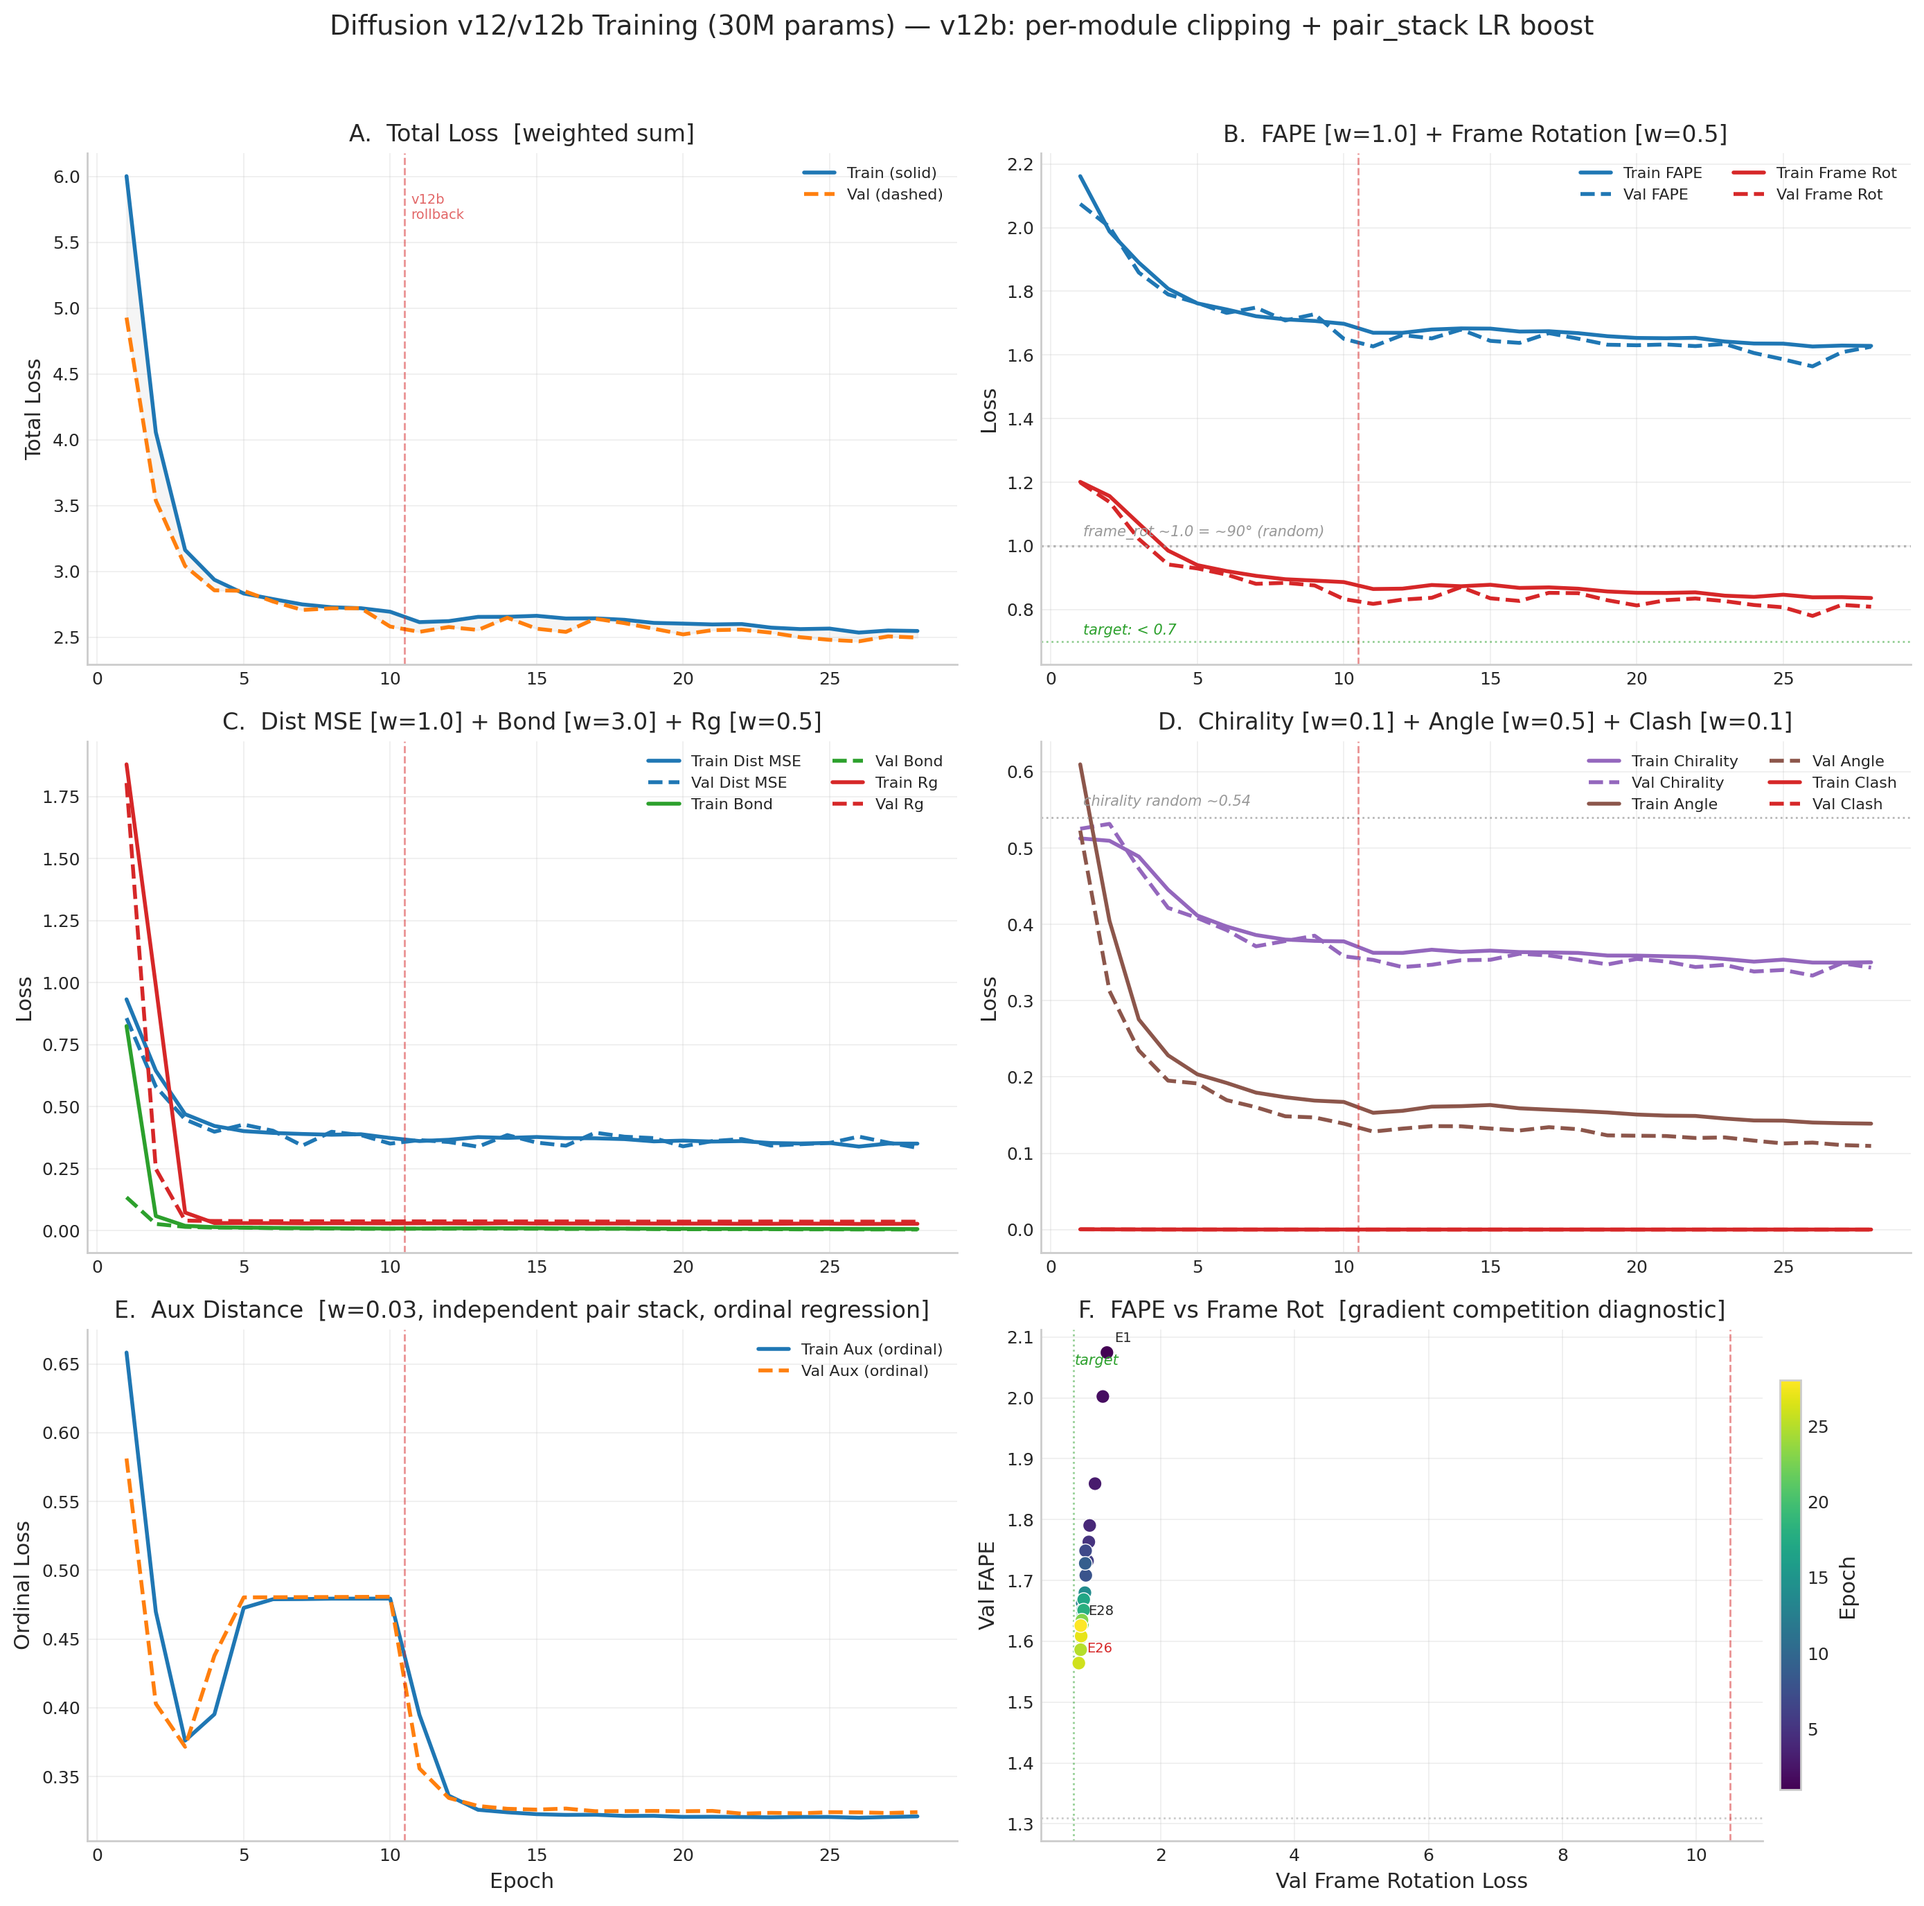
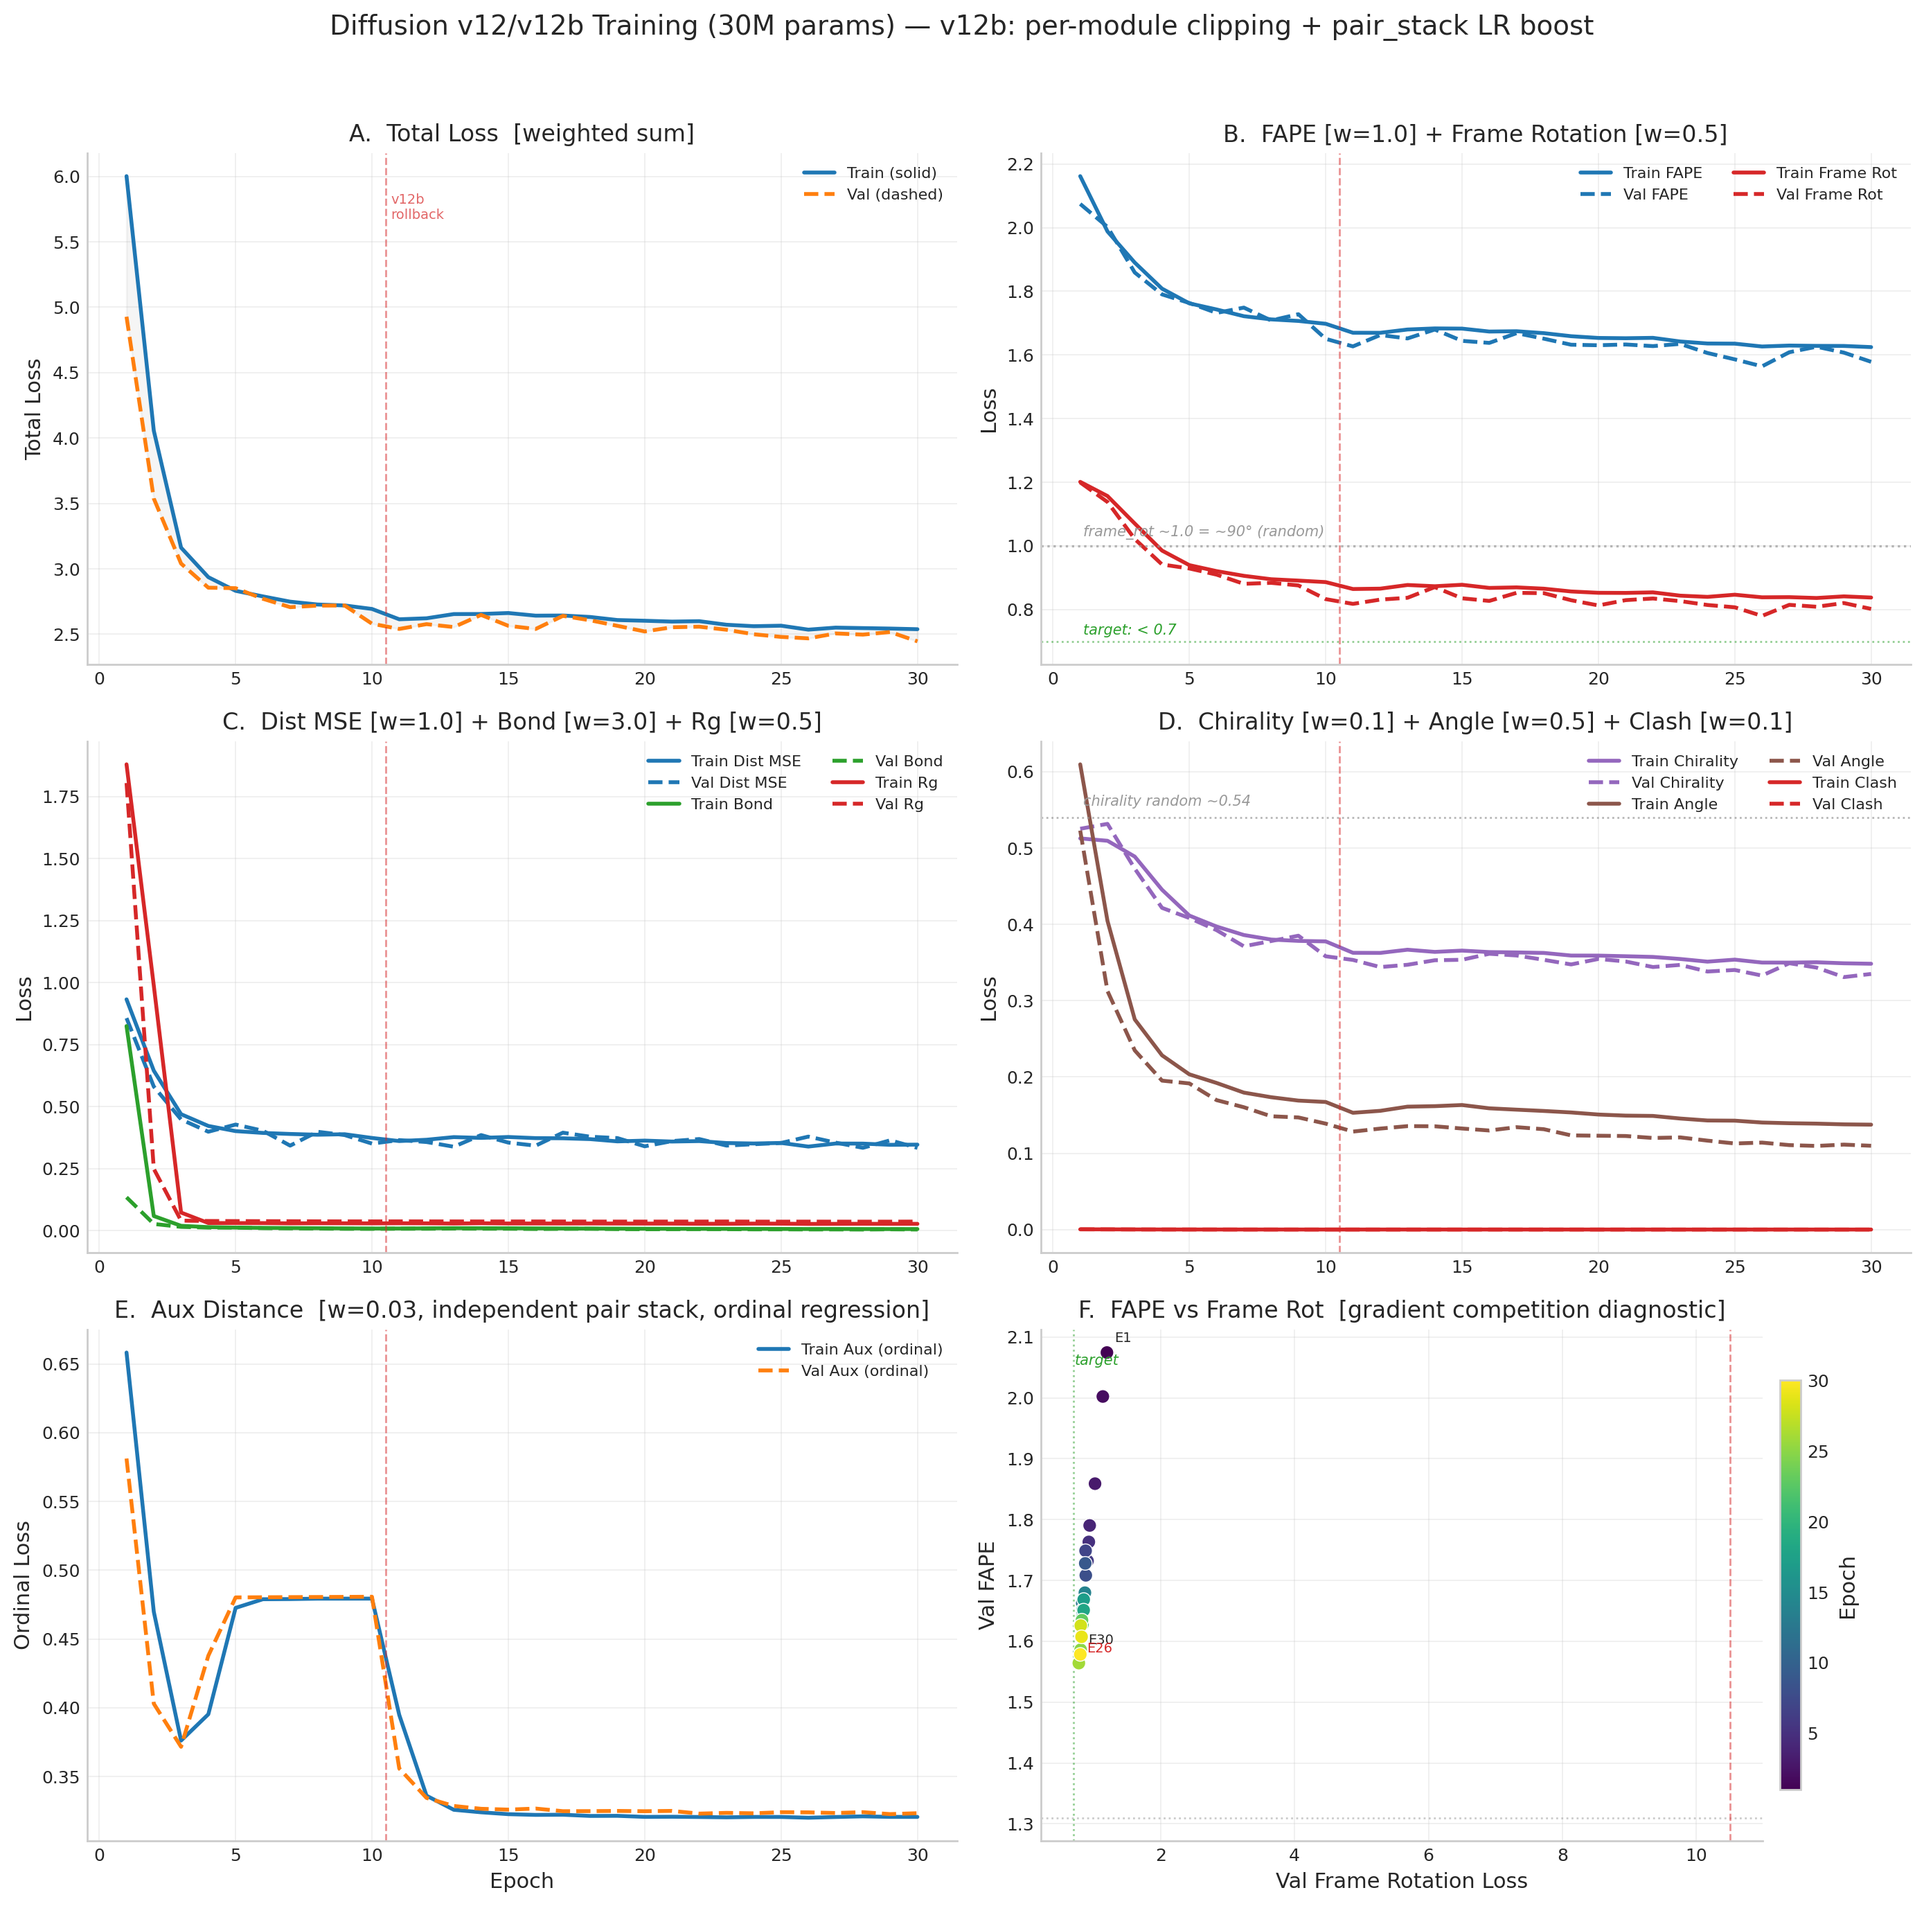
v12b E19-E20: b20 NEW BEST val_total 2.446, FAPE 1.578

diff --git a/index.html b/index.html
@@ -1611,6 +1611,28 @@
                 <td>16.83&Aring;</td>
                 <td><span class="tag tag-pat">pat 2</span></td>
               </tr>
+              <tr style="background: rgba(31, 119, 180, 0.12);">
+                <td>b19</td>
+                <td>2.517</td>
+                <td>1.607</td>
+                <td>0.820</td>
+                <td>0.365</td>
+                <td>0.006</td>
+                <td>0.110</td>
+                <td>16.92&Aring;</td>
+                <td><span class="tag tag-pat">pat 3</span></td>
+              </tr>
+              <tr style="background: rgba(46, 204, 113, 0.18);">
+                <td><strong>b20</strong></td>
+                <td><strong>2.446</strong></td>
+                <td><strong>1.578</strong></td>
+                <td><strong>0.802</strong></td>
+                <td>0.334</td>
+                <td>0.005</td>
+                <td>0.103</td>
+                <td>17.53&Aring;</td>
+                <td><span class="tag tag-best">NEW BEST</span></td>
+              </tr>
             </tbody>
           </table>
         </div>
@@ -1819,10 +1841,10 @@
 
         <!-- Status / Live interpretation -->
         <div class="training-pending-note" id="v9-run2-status" style="border-left: 3px solid #1f77b4;">
-          <strong style="color: #2ca02c;">v12b Training &mdash; E10 NEW BEST, surpasses v12 peak</strong>
+          <strong style="color: #2ca02c;">v12b Training &mdash; b20 NEW BEST, 4th record since b14</strong>
           <ul style="margin: 6px 0 6px 18px; font-size: 0.95em;">
-            <li><strong>v12b E10 is the new overall best:</strong> val FAPE 1.630, frame_rot 0.813, val_total 2.521, DDIM TM 0.113. Surpasses v12 E10 peak (FAPE 1.651, frame_rot 0.833, TM 0.102) &mdash; per-module clipping is working.</li>
-            <li><strong>b16 remains best:</strong> val_total <strong>2.469</strong>, val FAPE <strong>1.564</strong>, frame_rot <strong>0.780</strong>. After 3 consecutive NEW BESTs (b14&rarr;b16), b17-b18 show a mild plateau (pat 2/15). b18 val_total 2.497 is close to best &mdash; no regression. Train loss still declining (2.55&rarr;2.55), suggesting the model is consolidating before the next descent.</li>
+            <li><strong>b20 is the new overall best:</strong> val_total <strong>2.446</strong>, val FAPE <strong>1.578</strong>, frame_rot <strong>0.802</strong>, DDIM TM 0.103. After a 3-epoch consolidation plateau (b17-b19, pat 3/15), the model broke through with a new record &mdash; the 4th NEW BEST since b14.</li>
+            <li><strong>Steady improvement trajectory:</strong> b14 (2.500) &rarr; b15 (2.480) &rarr; b16 (2.469) &rarr; plateau &rarr; b20 (2.446). FAPE: 1.606 &rarr; 1.586 &rarr; 1.564 &rarr; 1.578. frame_rot: 0.814 &rarr; 0.807 &rarr; 0.780 &rarr; 0.802. Train loss still declining (2.54), suggesting more room for improvement.</li>
             <li><strong>v12 E11-E13 regression diagnosed:</strong> Gradient starvation via global <code>clip_grad_norm_(1.0)</code>. Denoiser (28.5M params) consumed 99%+ of gradient budget. pair_stack_norm collapsed mid-E12: 0.125&rarr;0.007&rarr;0.000.</li>
             <li><strong>Gradient cosine diagnostic confirmed:</strong> No gradient competition. FAPE &amp; frame_rot are <em>aligned</em> (+0.57 cosine). dist_mse is near-orthogonal to both (+0.14). Losses do not oppose each other &mdash; the regression was purely gradient starvation, not conflicting objectives.</li>
             <li><strong>v12b fixes applied (rolling back to E10 EMA weights):</strong>
